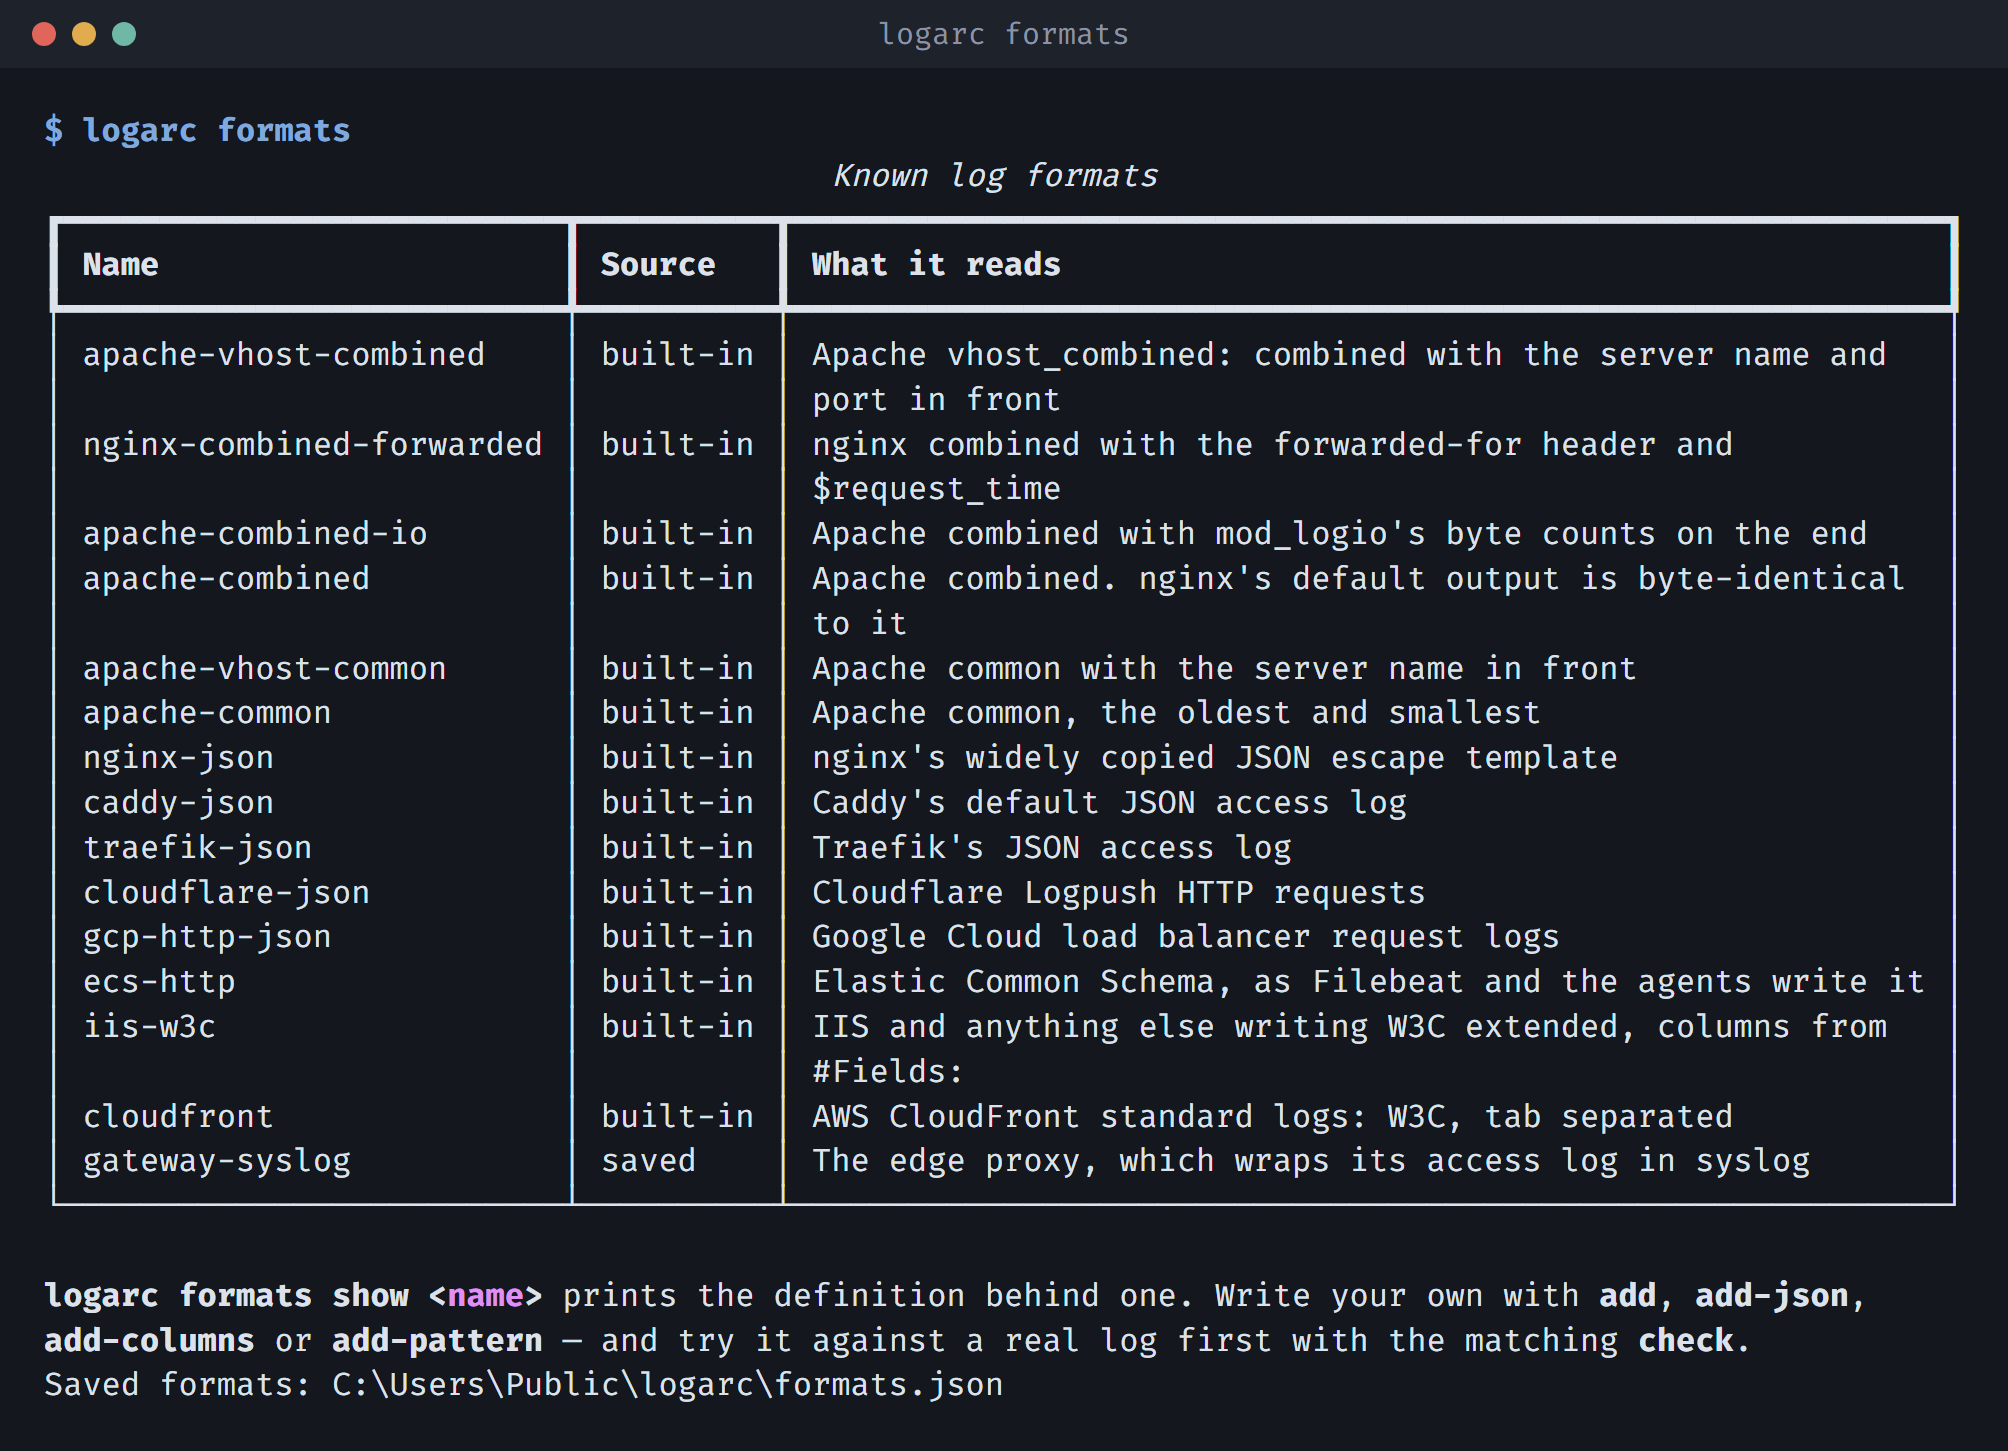
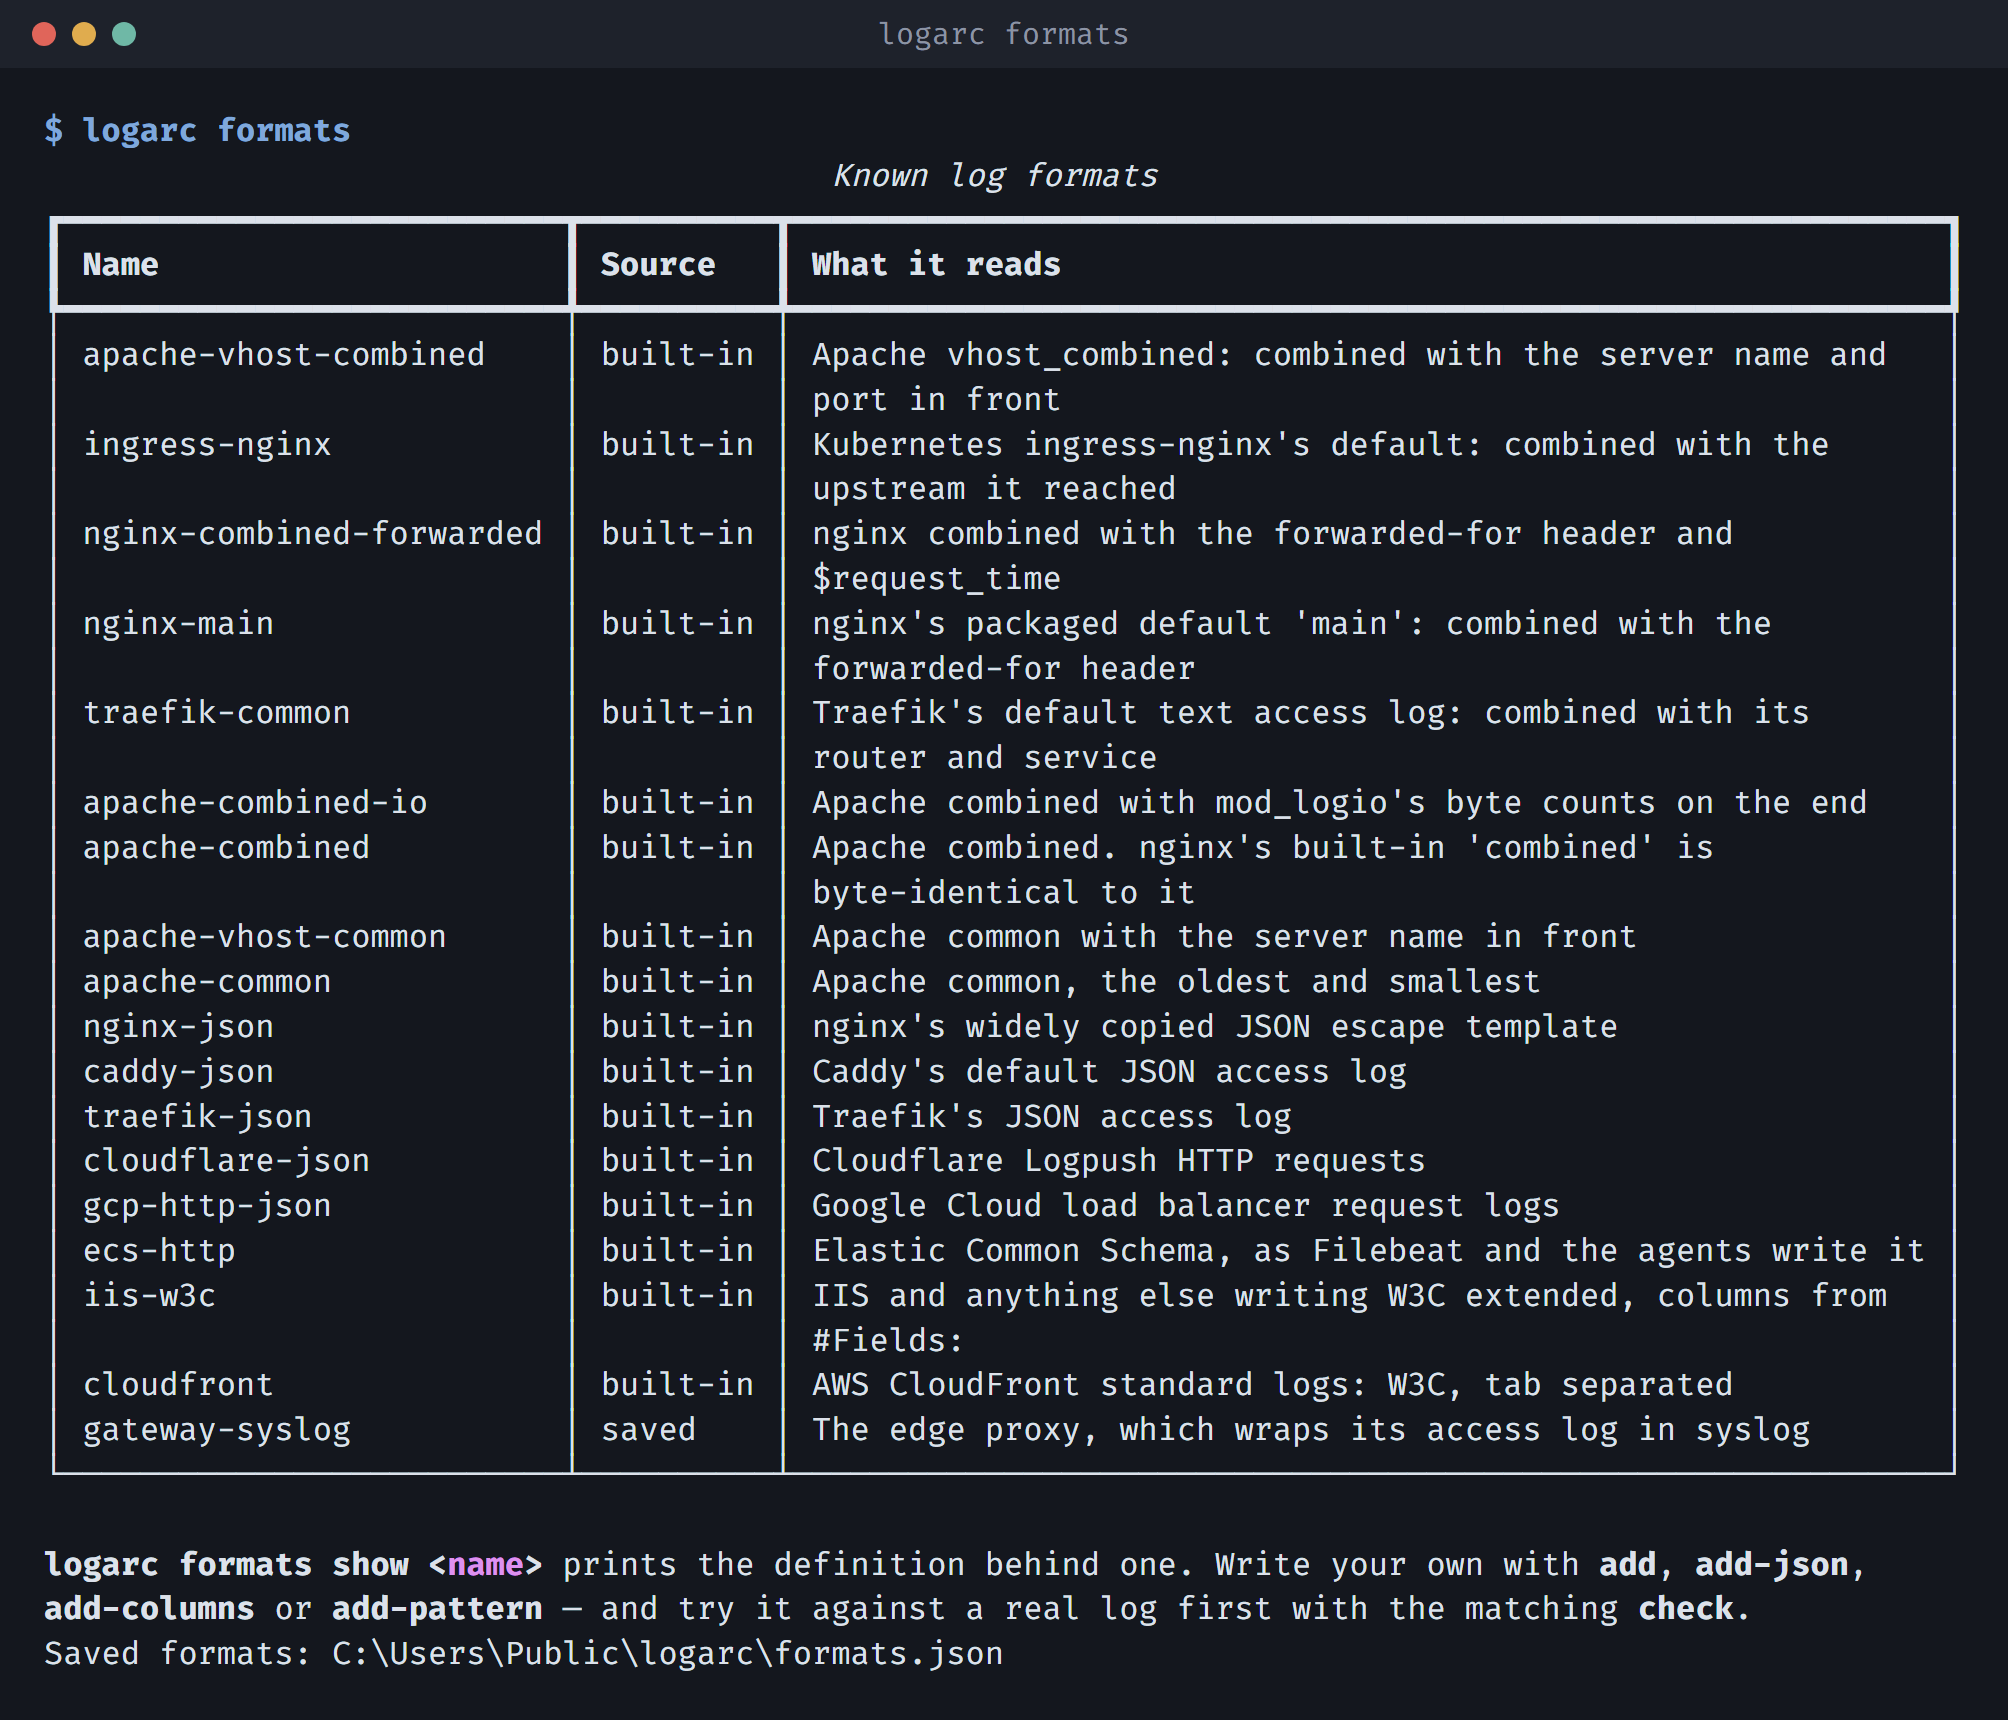
docs: the three new formats
docs/log-formats.md now lists what writes each of the seventeen built-ins, every server named there checked by capture or by its packaged config. It says what to expect from Traefik, which keeps no request headers by default; from docker and kubectl logs, whose own messages are set aside and can keep detection under its threshold (measured: 59% on a merged nginx log with half its requests 404s); and from a load balancer in front. It also gives the one-line format for Apache combined with %D. The count moves to seventeen in the README, the desktop guide and the manual test plan. The format library, format editor and logarc formats pictures are retaken, and apache-combined's description says nginx's built-in 'combined' rather than its 'default', which is now nginx-main for nginx.org's own packages.

Changed region(s): [[0.0, 0.062, 0.988, 0.9924], [0.4323, 0.0, 0.5558, 0.031], [0.0, 0.0, 0.0618, 0.031]]

diff --git a/src/logarc/cli/formats.py b/src/logarc/cli/formats.py
@@ -73,7 +73,7 @@ def formats(ctx: typer.Context) -> None:
     table.add_column("What it reads")
     for entry in registered_formats():
         # What it is for, not what it says. With three formats the definitions
-        # fitted; with fourteen they are a wall of mappings nine lines deep,
+        # fitted; with seventeen they are a wall of mappings nine lines deep,
         # and a list exists to help someone pick. `formats show` is where the
         # definition lives, and the line under this table points at it.
         note = entry.spec.description if entry.spec is not None else ""

diff --git a/tests/cli/test_formats_command.py b/tests/cli/test_formats_command.py
@@ -378,7 +378,7 @@ def test_a_json_format_is_listed_beside_the_others(json_log: Path) -> None:
 
 
 def test_the_list_does_not_print_every_mapping_in_full(json_log: Path) -> None:
-    """With three formats the definitions fitted. With fourteen they are a wall
+    """With three formats the definitions fitted. With seventeen they are a wall
     of mappings nine lines deep, and a list exists to help someone pick — the
     definition is what `formats show` is for."""
     runner.invoke(

diff --git a/src/logarc/parsers/builtins.py b/src/logarc/parsers/builtins.py
@@ -104,7 +104,7 @@ BUILT_INS: Final[tuple[FormatSpec, ...]] = (
     _apache(
         "apache-combined",
         COMBINED,
-        "Apache combined. nginx's default output is byte-identical to it",
+        "Apache combined. nginx's built-in 'combined' is byte-identical to it",
     ),
     _apache(
         "apache-vhost-common",

diff --git a/docs/log-formats.md b/docs/log-formats.md
@@ -4,11 +4,62 @@ In the window, **Case → Formats and rules…** shows the whole library, and a 
 written there is tried against your log as you type. The command line does the
 same, as below.
 
-![The format library: fourteen built in, one written by the reader](images/screenshot-log-formats.png)
+![The format library: seventeen built in, one written by the reader](images/screenshot-log-formats.png)
 
 The format is detected from the first lines of a log. When it cannot be, ingest
 **refuses rather than guessing** — the wrong parser quarantines every line and
 presents as an empty result, which is the worst failure this tool has.
+
+## What is read without naming a format
+
+| Format | What writes it |
+|---|---|
+| `apache-combined` | Apache's `combined`, and the servers that write the same line: the nginx that Debian and Ubuntu package, OpenLiteSpeed, Express's morgan `combined`, Traefik's `genericCLF` |
+| `apache-combined-io` | Apache `combined` with mod_logio's byte counts on the end |
+| `apache-common` | Apache `common` |
+| `apache-vhost-combined` | Apache `vhost_combined`: the server name and port in front |
+| `apache-vhost-common` | Apache `common` with the server name in front |
+| `nginx-main` | nginx from nginx.org's own packages and the official Docker image: `combined` plus the forwarded-for header |
+| `nginx-combined-forwarded` | nginx `combined` plus the forwarded-for header and `$request_time` |
+| `ingress-nginx` | Kubernetes ingress-nginx, its default `upstreaminfo` |
+| `traefik-common` | Traefik's default text access log |
+| `traefik-json` | Traefik with `format: json` |
+| `nginx-json` | The JSON escape template nginx sites copy |
+| `caddy-json` | Caddy's default access log |
+| `cloudflare-json` | Cloudflare Logpush, HTTP requests |
+| `gcp-http-json` | Google Cloud load balancer request logs |
+| `ecs-http` | Elastic Common Schema, as Filebeat and the Elastic agents write it |
+| `iis-w3c` | IIS, and anything else writing W3C extended |
+| `cloudfront` | AWS CloudFront standard logs |
+
+Each one is tested against a line in the shape its server writes. For
+`nginx-main`, `ingress-nginx` and `traefik-common`, those lines were captured
+from the servers themselves. ingress-nginx's came from nginx running its exact
+log format.
+
+Four things are worth knowing about logs from containers and proxies:
+
+- **Traefik keeps no request headers by default.** Its log writes `-` for the
+  Referer and the User-Agent even when the request sent both, so the rules that
+  read the User-Agent have nothing to read. Start Traefik with
+  `--accesslog.fields.headers.names.User-Agent=keep` and
+  `--accesslog.fields.headers.names.Referer=keep` to record them.
+- **`docker logs` and `kubectl logs` mix in the server's own messages.** Start-up
+  and error lines are not requests. They are set aside and counted, and never
+  read as one. Detection needs 60% of the first 200 lines to be requests, so a
+  log that is mostly messages is not recognised on its own. Measured: 200
+  requests to the nginx image, half of them 404s, came to 59% once its error
+  log was merged in. Name the format then: `--format nginx-main`.
+  `docker logs nginx > access.log` keeps only the start-up lines and the
+  requests, and is recognised.
+- **Behind a load balancer, the client may be the load balancer.** These formats
+  take the client from `$remote_addr`. ingress-nginx sets that to the real
+  client only when it is told to trust what is in front of it
+  (`use-forwarded-headers`, `enable-real-ip` or the PROXY protocol). A forwarded-for header is
+  kept beside the event and never used as the client: anyone can write one.
+- **Apache combined with `%D` on the end is no server's default.** It is a site's
+  own setting, so it is a format to add once:
+  `logarc formats add apache-timed '%h %l %u %t "%r" %>s %b "%{Referer}i" "%{User-Agent}i" %D'`.
 
 ```bash
 logarc formats                     # every format, built in and saved
@@ -37,6 +88,12 @@ logarc formats add-columns edge --log edge.csv --separator comma
 logarc formats add-pattern gw-proxy '^(?P<timestamp>\S+) (?P<client_ip>\S+) …' \
     --time-format '%Y %b %d %H:%M:%S'
 ```
+
+In a directive, a field in quotes or in brackets reads up to the closing quote
+or bracket, spaces included, and may be empty. An unquoted header or variable
+(`%{X-Forwarded-For}i`, `%{upstream_addr}e`) may be a list, `a, b` or `a : b`.
+If it ends the line, it reads to the end of it. None of this narrows a field:
+a line the plain reading accepts is read exactly as before.
 
 A time format naming no year is **refused** rather than accepted: `strptime`
 supplies 1900 for a missing year, and a case where every event is dated 1900 is

diff --git a/README.md b/README.md
@@ -63,7 +63,7 @@ professionals.**
 
 | Step | The question | What logarc does |
 |---|---|---|
-| **Open the log** | "What format is this? Do I need a database?" | **Case → New from logs…** detects the format (fourteen are built in) and reads the log on your machine. Lines it cannot read are counted and reported, never silently dropped. |
+| **Open the log** | "What format is this? Do I need a database?" | **Case → New from logs…** detects the format (seventeen are built in) and reads the log on your machine. Lines it cannot read are counted and reported, never silently dropped. |
 | **Find a starting point** | "A million lines. Where do I look?" | **Triage** ranks clients in a *Suspicious* and an *Unusual* queue, each with a *Finding* and the reasons behind its place. |
 | **Understand and check** | "What did this address do, in what order, and how did the server answer?" | Each client becomes a graph of activities, grouped into sessions with their times and a name for each, which you can change. A node's outline summarises the response codes it received, and the icon inside it says what kind of activity it was. Click it and the evidence panel lists the requests behind it, decoded, with the raw line kept and repeated lines folded. |
 | **Explain and hand over** | "How do I show this to someone who can act?" | **Ctrl+D** bookmarks a client, an activity or a line, with a note. **Export** writes a report (HTML), the graph (JSON), or every bookmark (CSV). |
@@ -121,7 +121,7 @@ Every screen is described in [docs/desktop-app.md](docs/desktop-app.md).
 
 | | |
 |---|---|
-| **Reads** | Apache, nginx, IIS W3C, Caddy, Traefik, Cloudflare, Google Cloud, ECS, CloudFront: fourteen formats built in, plus any format you write yourself |
+| **Reads** | Apache, nginx, Kubernetes ingress-nginx, IIS W3C, Caddy, Traefik, Cloudflare, Google Cloud, ECS, CloudFront: seventeen formats built in, plus any format you write yourself |
 | **Finds** | Access-log patterns mapped to selected OWASP Top 10 categories, plus the ordinary traffic between them |
 | **Produces** | An activity graph per client, an HTML or JSON report, and a line-level evidence trail |
 | **Runs** | Offline. Evidence never leaves the machine. |
@@ -204,7 +204,7 @@ OWASP CRS sidecar are covered in [docs/installing.md](docs/installing.md).
 | [docs/installing.md](docs/installing.md) | Installing, the packaged Windows build, and OWASP CRS |
 | [docs/desktop-app.md](docs/desktop-app.md) | The desktop application, screen by screen |
 | [docs/detection.md](docs/detection.md) | What it detects, and what its OWASP Top 10 annotations do and do not claim |
-| [docs/log-formats.md](docs/log-formats.md) | The fourteen built-in formats, and writing your own |
+| [docs/log-formats.md](docs/log-formats.md) | The seventeen built-in formats, and writing your own |
 | [docs/evaluation.md](docs/evaluation.md) | How accuracy is measured, the numbers, and their limits |
 | [docs/limitations.md](docs/limitations.md) | What logarc cannot tell you, and why |
 | [docs/architecture.md](docs/architecture.md) | How it separates one action from the next, layers and data flow |

diff --git a/CHANGELOG.md b/CHANGELOG.md
@@ -12,6 +12,29 @@ which will be the first tag.
 
 ### Added
 
+- **nginx's own default, Kubernetes ingress-nginx and Traefik are read without
+  naming a format.** Three built-ins, seventeen in all: `nginx-main` (nginx.org's
+  packages and the official Docker image, combined plus the forwarded-for header),
+  `ingress-nginx` (its default `upstreaminfo`) and `traefik-common` (Traefik's
+  default text log). All three were refused before. Their test lines were written
+  by the servers themselves, in Docker, on 2026-10-25: nginx 1.30.6, Traefik
+  3.7.16, and nginx running ingress-nginx's own log format, including a retried
+  and a redirected request. For ingress-nginx the directive compiler learned
+  three things, each general:
+  - a field in brackets may be empty, `[]`;
+  - an unquoted header or variable may be a list, `a, b` or `a : b`;
+  - one that ends the line reads to the end of it.
+
+  The last closes a hole the capture showed. ingress-nginx logs the client's own
+  `X-Request-ID`, spaces and all, so a request sent with `X-Request-ID: a b`
+  could not be read. Lists are matched without backtracking: made to backtrack,
+  four list fields took 12.4 s to refuse one crafted line, and as written a
+  6 KB one takes 0.6 ms. None of it narrows a field: where the widened reading
+  refuses a line, the plain one is tried, so every line read before is read the
+  same way. The six existing Apache-style built-ins compile to exactly the
+  patterns they did. [docs/log-formats.md](docs/log-formats.md) now
+  lists what writes each format. It also says what to expect from Traefik, which
+  keeps no request headers by default, and from `docker logs`.
 - **Every session is named.** A session's box is headed by the name of its most
   important activity, picked as an activity picks its own (most severe, then an
   attack over ordinary use, then the most requests), with its old label,

diff --git a/docs/manual-test-plan.md b/docs/manual-test-plan.md
@@ -869,7 +869,7 @@ can choose from.
 
 1. `logarc formats`
 
-**Pass:** fourteen rows, each with a plain sentence saying what it reads —
+**Pass:** seventeen rows, each with a plain sentence saying what it reads —
 "Caddy's default JSON access log", "IIS and anything else writing W3C
 extended". Not a definition; the line under the table says where those are.
 
@@ -880,7 +880,7 @@ extended". Not a definition; the line under the table says where those are.
 3. Take a log from any server you have and ingest it with **no** `--format`.
 
 **Pass:** the Format column of the ingest table names the one it chose, and it
-is the right one. If it is not, that is worth reporting: with fourteen
+is the right one. If it is not, that is worth reporting: with seventeen
 candidates the ordering is the thing most likely to be wrong.
 
 ---
@@ -1340,7 +1340,7 @@ rule.
 | 18 | A JSON log's mapping is guessed, correctable, and says what the keys are | | |
 | 19 | An IIS log reads from its own header; its directives are not quarantined | | |
 | 20 | A pattern reads a syslog-wrapped log; a year-less time format is refused | | |
-| 21 | The fourteen shipped formats read as a list you can choose from | | |
+| 21 | The seventeen shipped formats read as a list you can choose from | | |
 | 22 | Sessions are boxed, named and explained; a name can be changed, survives reopening, and goes back; the boxes follow a drag and can be turned off | | |
 | 23 | The evidence filters, says how much it kept, fades the canvas, and resets per client | | |
 | 24 | The client box finds clients by their requests, moves the range for a time, and opens a client filtered | | |

diff --git a/docs/desktop-app.md b/docs/desktop-app.md
@@ -470,7 +470,7 @@ back on for a stretch too narrow to drag onto.
 
 ## Log formats
 
-![The format library: fourteen built in, and one of the reader's own](images/screenshot-log-formats.png)
+![The format library: seventeen built in, and one of the reader's own](images/screenshot-log-formats.png)
 
 The *Log formats* tab of **Case → Formats and rules…** lists yours under
 **CUSTOM** and the ones that ship under **BUILT-IN**, and neither can be
